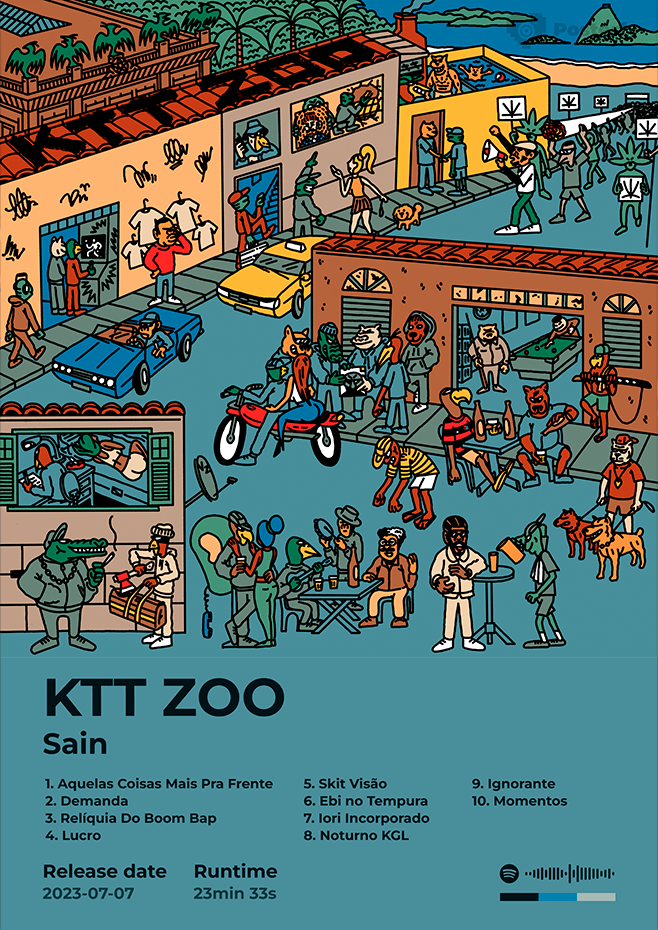
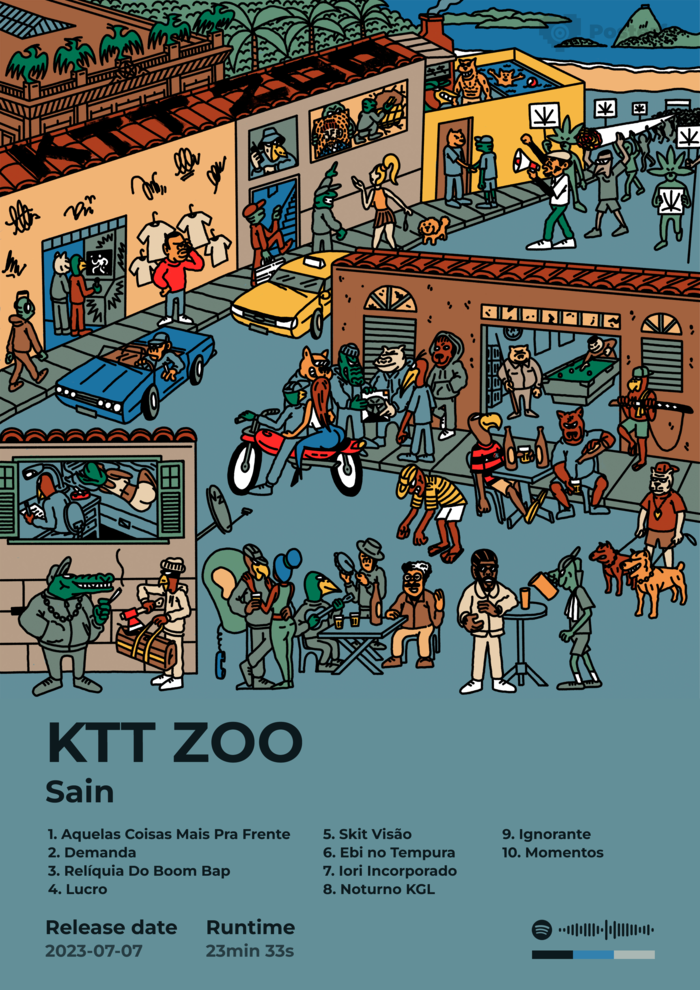
feat: update album assets and enhance editor features

diff --git a/src/components/albumData.js b/src/components/albumData.js
@@ -1,28 +1,178 @@
 import IMG1 from "../assets/albunsHero/Posterfy - KTT ZOO.png"
-import IMG2 from "../assets/albunsHero/Posterfy - STARBOY.png"
-import IMG3 from "../assets/albunsHero/Posterfy - CHROMAKOPIA.png"
-import IMG4 from "../assets/albunsHero/Posterfy - ZIMA.png"
-import IMG5 from "../assets/albunsHero/Posterfy - Sobrevivendo no inferno.png"
+import IMG2 from "../assets/albunsHero/Posterfy - JACKBOYS 2.png"
+import IMG3 from "../assets/albunsHero/Posterfy - SOS.png"
+import IMG4 from "../assets/albunsHero/Posterfy - F-1 Trillion.png"
+import IMG5 from "../assets/albunsHero/Posterfy - Nevermind.png"
 
 export const albumData = [
   {
     id: 1,
     coverImage: IMG1,
+    JSONConfig: {
+      "albumCover": "https://i.scdn.co/image/ab67616d0000b2732715c405b0b118516627add4",
+      "uncompressedAlbumCover": "https://a5.mzstatic.com/us/r1000/0/Music116/v4/15/e0/31/15e031a3-d975-91a7-5dc4-31dda64d1f52/8445162931182.jpg",
+      "useUncompressed": true,
+      "albumName": "KTT ZOO",
+      "artistsName": "Sain",
+      "titleSize": 200,
+      "artistsSize": "110",
+      "tracksSize": "50",
+      "marginTop": "200",
+      "marginSide": 160,
+      "marginCover": 0,
+      "marginBackground": "5",
+      "titleRelease": "Release date",
+      "releaseDate": "2023-07-07",
+      "titleRuntime": "Runtime",
+      "runtime": "23min 33s",
+      "backgroundColor": "#638f98",
+      "textColor": "#0c191d",
+      "useWatermark": true,
+      "useFade": false,
+      "showTracklist": true,
+      "tracklist": "1. Aquelas Coisas Mais Pra Frente\n2. Demanda\n3. Relíquia Do Boom Bap\n4. Lucro\n5. Skit Visão\n6. Ebi no Tempura\n7. Iori Incorporado\n8. Noturno KGL\n9. Ignorante\n10. Momentos",
+      "color1": "#0c191d",
+      "color2": "#3381ae",
+      "color3": "#aab8b4",
+      "albumID": "7lJibQ9XRhBDUIWgkP4wZm",
+      "userAdjustedTitleSize": false,
+      "initialTitleSizeSet": true
+    }
   },
   {
     id: 2,
     coverImage: IMG2,
+    JSONConfig: {
+      "albumCover": "https://i.scdn.co/image/ab67616d0000b273b547c9858fee61547e6b0fd8",
+      "uncompressedAlbumCover": "https://a5.mzstatic.com/us/r1000/0/Music221/v4/bb/00/09/bb0009b4-37e3-b924-b703-eb3d3a7f362d/196873402772.jpg",
+      "useUncompressed": true,
+      "albumName": "JACKBOYS 2",
+      "artistsName": "JACKBOYS, Travis Scott",
+      "titleSize": 200,
+      "artistsSize": "110",
+      "tracksSize": "50",
+      "marginTop": "50",
+      "marginSide": 160,
+      "marginCover": -1100,
+      "marginBackground": -1200,
+      "titleRelease": "Release date",
+      "releaseDate": "2025-07-13",
+      "titleRuntime": "Runtime",
+      "runtime": "55min 50s",
+      "backgroundColor": "#b4aba6",
+      "textColor": "#79736e",
+      "useWatermark": true,
+      "useFade": false,
+      "showTracklist": true,
+      "tracklist": "1. JB2 RADIO\n2. CHAMPAIN & VACAY\n3. 2000 EXCURSION\n4. KICK OUT\n5. DUMBO\n6. MM3\n7. VELOUR\n8. CONTEST\n9. ILMB\n10. WHERE WAS YOU\n11. NO COMMENTS\n12. BEEP BEEP\n13. PBT\n14. SHYNE\n15. OUTSIDE\n16. CANT STOP\n17. FLORIDA FLOW",
+      "color1": "#7a736f",
+      "color2": "#938c8c",
+      "color3": "#94948c",
+      "albumID": "32lGAqeVkdJxEj2iv2Q01B",
+      "userAdjustedTitleSize": false,
+      "initialTitleSizeSet": true
+    }
   },
   {
     id: 3,
     coverImage: IMG3,
+    JSONConfig: {
+      "albumCover": "https://i.scdn.co/image/ab67616d0000b27370dbc9f47669d120ad874ec1",
+      "uncompressedAlbumCover": "https://a5.mzstatic.com/us/r1000/0/Music122/v4/bd/3b/a9/bd3ba9fb-9609-144f-bcfe-ead67b5f6ab3/196589564931.jpg",
+      "useUncompressed": true,
+      "albumName": "SOS",
+      "artistsName": "SZA",
+      "titleSize": 200,
+      "artistsSize": "110",
+      "tracksSize": "46",
+      "marginTop": "",
+      "marginSide": 160,
+      "marginCover": -1100,
+      "marginBackground": -1200,
+      "titleRelease": "Release date",
+      "releaseDate": "2022-12-09",
+      "titleRuntime": "Runtime",
+      "runtime": "1h 8min 4s",
+      "backgroundColor": "#0d2b48",
+      "textColor": "#adb8c7",
+      "useWatermark": true,
+      "useFade": false,
+      "showTracklist": true,
+      "tracklist": "1. SOS\n2. Kill Bill\n3. Seek & Destroy\n4. Low\n5. Love Language\n6. Blind\n7. Used\n8. Snooze\n9. Notice Me\n10. Gone Girl\n11. Smoking on my Ex Pack\n12. Ghost in the Machine\n13. F2F\n14. Nobody Gets Me\n15. Conceited\n16. Special\n17. Too Late\n18. Far\n19. Shirt\n20. Open Arms\n21. I Hate U\n22. Good Days\n23. Forgiveless",
+      "color1": "#4c7090",
+      "color2": "#738fae",
+      "color3": "#809eb7",
+      "albumID": "07w0rG5TETcyihsEIZR3qG",
+      "userAdjustedTitleSize": false,
+      "initialTitleSizeSet": true
+    }
   },
   {
     id: 4,
     coverImage: IMG4,
+    JSONConfig: {
+      "albumCover": "https://i.scdn.co/image/ab67616d0000b27388208159b1b3c69eefdeb2e0",
+      "uncompressedAlbumCover": "https://a5.mzstatic.com/us/r1000/0/Music211/v4/95/ad/c8/95adc8ca-e583-1800-9b56-4665f186e899/24UMGIM60824.rgb.jpg",
+      "useUncompressed": false,
+      "albumName": "F-1 Trillion",
+      "artistsName": "Post Malone",
+      "titleSize": 200,
+      "artistsSize": "110",
+      "tracksSize": "50",
+      "marginTop": 200,
+      "marginSide": 160,
+      "marginCover": -500,
+      "marginBackground": -700,
+      "titleRelease": "Release date",
+      "releaseDate": "2024-08-15",
+      "titleRuntime": "Runtime",
+      "runtime": "57min 58s",
+      "backgroundColor": "#cdd1d6",
+      "textColor": "#3c484c",
+      "useWatermark": true,
+      "useFade": true,
+      "showTracklist": false,
+      "tracklist": "1. Wrong Ones (Feat. Tim McGraw)\n2. Finer Things (Feat. Hank Williams Jr.)\n3. I Had Some Help (Feat. Morgan Wallen)\n4. Pour Me A Drink (Feat. Blake Shelton)\n5. Have The Heart (Feat. Dolly Parton)\n6. What Don't Belong To Me\n7. Goes Without Saying (Feat. Brad Paisley)\n8. Guy For That (Feat. Luke Combs)\n9. Nosedive (Feat. Lainey Wilson)\n10. Losers (Feat. Jelly Roll)\n11. Devil I've Been (Feat. ERNEST)\n12. Never Love You Again (Feat. Sierra Ferrell)\n13. Missin’ You Like This (Feat. Luke Combs)\n14. California Sober (Feat. Chris Stapleton)\n15. Hide My Gun (Feat. HARDY)\n16. Right About You\n17. M-E-X-I-C-O (Feat. Billy Strings)\n18. Yours",
+      "color1": "#86939b",
+      "color2": "#6a5f59",
+      "color3": "#81735d",
+      "albumID": "4BbsHmXEghoPPevQjPnHXx",
+      "userAdjustedTitleSize": false,
+      "initialTitleSizeSet": true
+    }
   },
   {
     id: 5,
     coverImage: IMG5,
+    JSONConfig: {
+      "albumCover": "https://i.scdn.co/image/ab67616d0000b273fbc71c99f9c1296c56dd51b6",
+      "uncompressedAlbumCover": "",
+      "useUncompressed": false,
+      "albumName": "",
+      "artistsName": "",
+      "titleSize": "200",
+      "artistsSize": "110",
+      "tracksSize": "70",
+      "marginTop": "-200",
+      "marginSide": "115",
+      "marginCover": 0,
+      "marginBackground": 0,
+      "titleRelease": "Release date",
+      "releaseDate": "1991-09-26",
+      "titleRuntime": "Runtime",
+      "runtime": "49min 15s",
+      "backgroundColor": "#0064b0",
+      "textColor": "#01010e",
+      "useWatermark": true,
+      "useFade": false,
+      "showTracklist": true,
+      "tracklist": "1. Smells Like Teen Spirit\n2. In Bloom\n3. Come As You Are\n4. Breed\n5. Lithium\n6. Polly\n7. Territorial Pissings\n8. Drain You\n9. Lounge Act\n10. Stay Away\n11. On A Plain\n12. Something In The Way\n13. Endless, Nameless",
+      "color1": "#a6b6ba",
+      "color2": "#43bdd1",
+      "color3": "#052a5e",
+      "albumID": "2UJcKiJxNryhL050F5Z1Fk",
+      "userAdjustedTitleSize": false,
+      "initialTitleSizeSet": true
+    }
   },
 ]

diff --git a/src/components/PosterEditor/PosterEditor.jsx b/src/components/PosterEditor/PosterEditor.jsx
@@ -359,7 +359,7 @@ const ShortcutsInfo = styled.p`
     }
 `
 
-function PosterEditor({ albumID, handleClickBack, model, modelParams }) {
+function PosterEditor({ albumID, handleClickBack, model, modelParams, initialPosterJson }) {
     const { t } = useTranslation();
     const previewRef = useRef(null);
 
@@ -432,6 +432,12 @@ function PosterEditor({ albumID, handleClickBack, model, modelParams }) {
             reader.readAsArrayBuffer(customFontFile);
         }
     }, [customFontFile]);
+
+    useEffect(() => {
+        if (initialPosterJson) {
+            applyPosterJson(initialPosterJson);
+        }
+    }, [initialPosterJson]);
 
     const [useUncompressed, setUseUncompressed] = useState(false);
     const [fileName, setFileName] = useState("Original");
@@ -858,7 +864,7 @@ function PosterEditor({ albumID, handleClickBack, model, modelParams }) {
                                         <NormalInput 
                                             title={t('EDITOR_MarginBackground')}
                                             value={marginBackground}
-                                            onChange={(e) => setMarginBackground(e.target.value)}
+                                            onChange={(e) => setmarginBackground(e.target.value)}
                                         />
                                     </AnimatedInput>
             
@@ -1028,14 +1034,14 @@ function PosterEditor({ albumID, handleClickBack, model, modelParams }) {
                                             {t('EDITOR_Apply')}
                                         </ButtonText>
                                     </ButtonDiv>
-                                    {/* <ButtonDiv onClick={() => exportPosterJson(posterData)}>
+                                    <ButtonDiv onClick={() => exportPosterJson(posterData)}>
                                         <IconDownload/>
                                         <ButtonText>Exportar JSON</ButtonText>
                                     </ButtonDiv>
                                     <ButtonDiv onClick={() => importPosterJson(applyPosterJson)}>
                                         <IconDownload/>
                                         <ButtonText>Importar JSON</ButtonText>
-                                    </ButtonDiv> */}
+                                    </ButtonDiv>
                                 </DivButtons>
                             </AnimatedInput>
                             <AnimatedInput animationDelay={1100}>

diff --git a/src/components/AlbumCollection.jsx b/src/components/AlbumCollection.jsx
@@ -232,14 +232,20 @@ const ModalContent = styled.div`
     max-width: 70%;
     max-height: 70%;
     object-fit: contain;
-    border-radius: 8px;
+    border-radius: 0px;
     box-shadow: 0 20px 40px rgba(0,0,0,0.6);
+  }
+
+  @media (max-width: 950px) {
+    img {
+      max-width: 60%;
+    }
   }
 `
 
 const CloseButton = styled.button`
   position: absolute;
-  top: -10px;
+  top: 0px;
   right: 50px;
   background: var(--glassBackground);
   border: 2px solid var(--borderColor);
@@ -254,6 +260,7 @@ const CloseButton = styled.button`
   justify-content: center;
   transition: all 0.3s cubic-bezier(0.25, 0.46, 0.45, 0.94);
   backdrop-filter: blur(8px);
+  color: white;
 
   &:hover {
     background: var(--borderColor);
@@ -264,6 +271,43 @@ const CloseButton = styled.button`
 
   &:active {
     transform: scale(0.95);
+  }
+`
+
+const RecreateButton = styled.button`
+   position: absolute;
+  top: 50px;
+  right: -80px;
+  background: var(--glassBackground);
+  border: 2px solid var(--borderColor);
+  border-radius: 20px;
+  padding: 10px 20px;
+  height: 40px;
+  color: var(--textColor);
+  font-size: 1em;
+  cursor: pointer;
+  display: flex;
+  align-items: center;
+  justify-content: center;
+  transition: all 0.3s cubic-bezier(0.25, 0.46, 0.45, 0.94);
+  backdrop-filter: blur(8px);
+  color: white;
+  font-weight: bolder;
+
+  &:hover {
+    background: var(--borderColor);
+    border-color: var(--textSecondary);
+    transform: scale(1.05);
+    box-shadow: 0 4px 12px rgba(0,0,0,0.3);
+  }
+
+  &:active {
+    transform: scale(0.95);
+  }
+
+  @media (max-width: 950px) {
+    right: 40%;
+    top: 105%;
   }
 `
 
@@ -319,6 +363,9 @@ const AlbumCollection = () => {
         <Modal onClick={closeModal}>
           <ModalContent onClick={(e) => e.stopPropagation()}>
             <CloseButton onClick={closeModal}>&times;</CloseButton>
+            {/* <RecreateButton onClick={closeModal}>
+              Recreate Poster
+            </RecreateButton> */}
             <img src={modalImage} alt="Album cover" />
           </ModalContent>
         </Modal>
